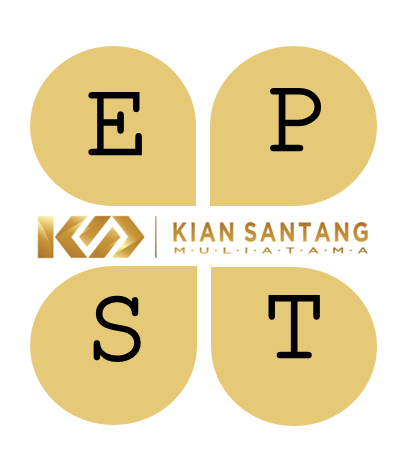
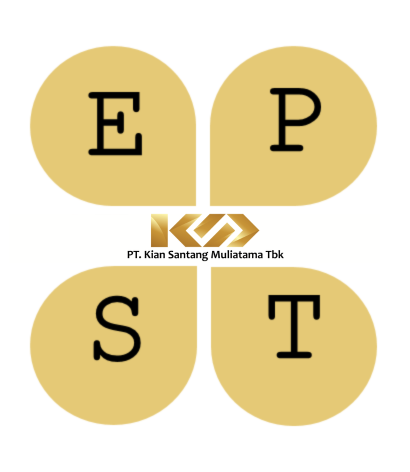
add menu info investor

diff --git a/resources/views/bisnisKami-epc.blade.php b/resources/views/bisnisKami-epc.blade.php
@@ -1,0 +1,69 @@
+@extends('layout')
+@section('content')
+<div class="container-fluid bg-primary py-5 bg-header">
+    <div class="row py-5">
+        <div class="col-12 pt-lg-5 mt-lg-5 text-center">
+            <h1 class="display-4 text-white animated zoomIn">Bisnis</h1>
+            <a href="" class="h5 text-white">Tentang Kami</a>
+            <i class="far fa-circle text-white px-2"></i>
+            <a href="" class="h5 text-white">Bisnis - EPC</a>
+        </div>
+    </div>
+</div>
+
+<div class="container-fluid py-5 wow fadeInUp" data-wow-delay="0.1s" style="visibility: visible; animation-delay: 0.1s; animation-name: fadeInUp;">
+    <div class="container py-5">
+        <div class="section-title text-center position-relative pb-3 mb-5 mx-auto" style="max-width: 600px;">
+            <h2 class="mb-0">KEMAMPUAN KSM DI BIDANG EPC</h2>
+        </div>
+        <section class="">
+                <div class="row">
+                    <div class="col-lg-4 col-md-12 mb-4 mb-lg-0">
+                        <div class="bg-image hover-overlay ripple shadow-1-strong rounded" data-ripple-color="light">
+                            <img src="http://127.0.0.1:8000/image-projek/Konverter-Kit/IMG-20200831-WA0009-removebg-preview.png" class="w-100" data-target="#exampleModal" data-toggle="modal">
+                            <h5>DESIGN & ENGINEERING</h5>
+                            <figcaption>KSM memiliki SDM dengan latar belakang teknik (engineering) dengan keahlian: Electrical (Electronic, Instument, Telecommunication & Programming), Mechanical (Construction & Pipeline) and teknik sipil.</figcaption>
+                        </div>
+                    </div>
+
+                    <div class="col-lg-4 mb-4 mb-lg-0">
+                        <div class="bg-image hover-overlay ripple shadow-1-strong rounded" data-ripple-color="light">
+                            <img src="http://127.0.0.1:8000/image-projek/Master-Meter/master-meter.png" class="w-100" data-toggle="modal" data-target="#exampleModal1"> 
+                            <h5>INFRASTRUCTURE WORKS</h5>
+                            <figcaption>Pipe Support, Utilities Foundation, Building, Yard, dan lain-lain.</figcaption>
+                        </div>
+                    </div>
+                    <div class="col-lg-4 mb-4 mb-lg-0">
+                        <div class="bg-image hover-overlay ripple shadow-1-strong rounded" data-ripple-color="light">
+                            <img src="http://127.0.0.1:8000/image-projek/MRS G100/_MG_4567.JPG" class="w-100" data-toggle="modal" data-target="#exampleModal2">
+                            <h5>FABRICATION WORKS</h5>
+                            <figcaption>Pressure Vessel, Skid, Pipe Spool, Control Panel, Wiring Installation, DCS Programming, dan lain-lain.</figcaption>
+                        </div>
+                    </div>
+                    <div class="col-lg-4 mt-4 mb-lg-0">
+                        <div class="bg-image hover-overlay ripple shadow-1-strong rounded" data-ripple-color="light">
+                            <img src="http://127.0.0.1:8000/image-projek/Pekerjaan Pengadaan Suku Cadang Regulator Kit RMG dan Bryan Donkin (Honeywell)/20011410530815795.jpg" class="w-100" data-toggle="modal" data-target="#exampleModal3">
+                            <h5>INSTALLATION AT SITE</h5>
+                            <figcaption>- Mechanical Erection<br>
+                                        - Pipeline Connection<br>
+                                        - Rotating Equipment <br>
+                                        - Electrical<br>
+                                        - Instrumentation<br>
+                                        - Central Control Room
+                            </figcaption>
+                        </div>
+                    </div>
+
+                    <div class="col-lg-4 mt-4 mb-lg-0">
+                        <div class="bg-image hover-overlay ripple shadow-1-strong rounded" data-ripple-color="light">
+                            <img src="http://127.0.0.1:8000/image-projek/Pengadaan EVC dan Alat Ukur Sales and Operation Regional I Tahun 2022/elcorplus-500x500.png" class="w-100" data-toggle="modal" data-target="#exampleModal4">
+                            <h5>TESTING & COMMISSIONING</h5>
+                            <figcaption>FAT, SAT, Testing – Commissioning & Running, Warranty, dan lain-lain.</figcaption>
+                        </div>
+                    </div>
+                   
+                </div>
+            </section>
+    </div>
+</div>
+@endsection

diff --git a/resources/views/welcome.blade.php b/resources/views/welcome.blade.php
@@ -8,7 +8,7 @@
             <div class="carousel-caption d-flex flex-column align-items-center justify-content-center">
                 <div class="p-3" style="max-width: 900px;">
                     <h3 class="text-white mb-3 animated slideInDown">Selamat Datang Di</h3>
-                    <h3 class="display-1 text-white animated zoomIn">PT KIAN SANTANG MULIATAMA</h3>
+                    <h3 class="display-1 text-white animated zoomIn">PT KIAN SANTANG MULIATAMA Tbk</h3>
                     <h5 class="text-white">- Konstruksi -</h5>
                 </div>
             </div>
@@ -18,7 +18,7 @@
             <div class="carousel-caption d-flex flex-column align-items-center justify-content-center">
                 <div class="p-3" style="max-width: 900px;">
                     <h3 class="text-white mb-3 animated slideInDown">Selamat Datang Di</h3>
-                    <h3 class="display-1 text-white animated zoomIn">PT KIAN SANTANG MULIATAMA</h3>
+                    <h3 class="display-1 text-white animated zoomIn">PT KIAN SANTANG MULIATAMA Tbk</h3>
                     <h5 class="text-white">- Pelayanan -</h5>
                 </div>
             </div>
@@ -28,7 +28,7 @@
             <div class="carousel-caption d-flex flex-column align-items-center justify-content-center">
                 <div class="p-3" style="max-width: 900px;">
                     <h3 class="text-white mb-3 animated slideInDown">Selamat Datang Di</h3>
-                    <h3 class="display-1 text-white animated zoomIn">PT KIAN SANTANG MULIATAMA</h3>
+                    <h3 class="display-1 text-white animated zoomIn">PT KIAN SANTANG MULIATAMA Tbk</h3>
                     <h5 class="text-white">- Perdagangan -</h5>
                 </div>
             </div>
@@ -90,7 +90,7 @@
             <div class="col-lg-7">
                 <div class="section-title position-relative pb-3 mb-5">
                     <h5 class="fw-bold text-dark text-uppercase">Tentang Kami</h5>
-                    <h1 class="mb-0">PT KIAN SANTANG MULIATAMA</h1>
+                    <h1 class="mb-0">PT KIAN SANTANG MULIATAMA Tbk</h1>
                 </div>
                 <p class="mb-4">Memberikan solusi terbaik bagi mitra bisnis kami berdasarkan kompetensi, profesionalisme, kepercayaan, dan motivasi untuk memenuhi tuntutan mitra bisnis dan selalu mengutamakan hubungan jangka panjang dengan mitra bisnis dan pengguna akhir di seluruh Indonesia.</p>
                 <div class="row g-0 mb-3">
@@ -151,7 +151,7 @@
             <div class="col-lg-4">
                 <div class="section-title position-relative pb-3 mb-5">
                     <h5 class="fw-bold text-dark text-uppercase">Video Kami</h5>
-                    <h1 class="mb-0">PT KIAN SANTANG MULIATAMA</h1>
+                    <h1 class="mb-0">PT KIAN SANTANG MULIATAMA Tbk</h1>
                 </div>
                 <div class="row g-0 mb-3">
                     <!-- <div class="col-sm-6 wow zoomIn" data-wow-delay="0.2s" style="visibility: visible; animation-delay: 0.2s; animation-name: zoomIn;">

diff --git a/resources/views/investor-info.blade.php b/resources/views/investor-info.blade.php
@@ -1,0 +1,72 @@
+@extends('layout')
+@section('content')
+<div class="container-fluid bg-primary py-5 bg-header">
+    <div class="row py-5">
+        <div class="col-12 pt-lg-5 mt-lg-5 text-center">
+            <h1 class="display-4 text-white animated zoomIn">Investor</h1>
+            <a href="" class="h5 text-white">Info Investor</a>
+            <i class="far fa-circle text-white px-2"></i>
+            <a href="" class="h5 text-white">Investor - Info Investor</a>
+        </div>
+    </div>
+</div>
+
+<div class="container-fluid py-5 wow fadeInUp" data-wow-delay="0.1s" style="visibility: visible; animation-delay: 0.1s; animation-name: fadeInUp;">
+    <div class="container py-5">
+    <table class="table table-bordered">
+        <tbody>
+        <tr>
+            <td colspan="2"><h2>Kantor Akuntan Publik</h2></td>          
+        </tr>
+        <tr>
+            <td>Kantor Akuntan Publik </td>
+            <td>Mennix & Rekan (FinExpertiza Indonesia) </td>
+        </tr>
+        <tr>
+            <td>Alamat  </td>
+            <td>Voza Tower Office Lt. 11 Unit G, JI. Mayjend HR. Muhammad No. 31, Surabaya, Jawa Timur, 60189</td>
+        </tr>
+        <tr>
+            <td>Nama Partner   </td>
+            <td>Yudianto Prawiro</td>
+        </tr>
+        <tr>
+            <td>STTD</td>
+            <td>STTD.AP-577/PM.2/2018 tanggal 27 Juli 2018</td>
+        </tr>
+        <tr>
+            <td>Pedoman kerja  </td>
+            <td>Standar Profesional Akuntan Publik dan Pernyataan Standar Akuntansi Keuangan</td>
+        </tr>
+        </tbody>
+        </table><br>
+
+        <table class="table table-bordered">
+        <tbody>
+        <tr>
+            <td colspan="2"><h2>Notaris</h2></td>          
+        </tr>
+        <tr>
+            <td>Notaris </td>
+            <td>Rini Yulianti, SH</td>
+        </tr>
+        <tr>
+            <td>Alamat  </td>
+            <td>Komplek Bina Marga Il, Jalan Swakarsa V Nomor 57B, Pondok Kelapa, Duren Sawit</td>
+        </tr>
+        <tr>
+            <td>No.STID  </td>
+            <td>STTD.N-40-PJ-1/PM.02/2023 Tgl 21 Maret 2023</td>
+        </tr>
+        <tr>
+            <td>Pedoman kerja  </td>
+            <td>Undang-Undang Republik Indonesia No.2 Tahun 2014 tentang Perubahan Atas Undang-Undang No.30 Tahun 2004 tentang Jabatan Notaris</td>
+        </tr>
+        </tbody>
+        </table>
+
+
+ 
+    </div>
+</div>
+@endsection

diff --git a/resources/views/layout.blade.php b/resources/views/layout.blade.php
@@ -3,7 +3,7 @@
 
 <head>
     <meta charset="utf-8">
-    <title>PT KIAN SANTANG MULIATAMA</title>
+    <title>PT KIAN SANTANG MULIATAMA Tbk</title>
     <meta content="width=device-width, initial-scale=1.0" name="viewport">
     <meta content="Free HTML Templates" name="keywords">
     <meta content="Free HTML Templates" name="description">
@@ -71,7 +71,7 @@
     <div class="container-fluid position-relative p-0">
         <nav class="navbar navbar-expand-lg navbar-dark px-5 py-3 py-lg-0" style="background:white;">
             <a href="{{ asset('template/index.html') }}" class="navbar-brand p-0">
-                <img src="{{ asset('template/img/logo4.png') }}" alt="Image">
+                <img src="{{ asset('template/img/logonew.png') }}" alt="Image">
             </a>
             <button class="navbar-toggler" type="button" data-bs-toggle="collapse" data-bs-target="#navbarCollapse">
                 <span class="fa fa-bars"></span>
@@ -98,7 +98,7 @@
                     <div class="nav-item dropdown">
                         <a href="#" class="nav-link dropdown-toggle" data-bs-toggle="dropdown" style="color:#b97d29;">Investor</a>
                         <div class="dropdown-menu m-0">
-                            <a href="/profil" class="dropdown-item" style="color:#b97d29;">Info Investor</a>
+                            <a href="/infoInvestor" class="dropdown-item" style="color:#b97d29;">Info Investor</a>
                             <a href="/profil-bisnis" class="dropdown-item" style="color:#b97d29;">Laporan Tahunan & Laporan Keuangan</a>
                             <a href="/profil-struktur" class="dropdown-item" style="color:#b97d29;">Pemegang Saham</a>
                             <a href="/profil-komisaris" class="dropdown-item" style="color:#b97d29;">Rapat Umum Pemegang Saham</a>
@@ -220,7 +220,7 @@
         <div class="container text-center">
             <div class="row justify-content-end">
                 <div class="d-flex align-items-center justify-content-center" style="height: 75px;">
-                    <p class="mb-0">&copy; <a class="text-white border-bottom" href="#">Kian Santang Muliatama</a>. Seluruh hak cipta.
+                    <p class="mb-0">&copy; <a class="text-white border-bottom" href="#">Kian Santang Muliatama Tbk</a>. Seluruh hak cipta.
                     </p>
                 </div>
             </div>

diff --git a/routes/web.php b/routes/web.php
@@ -26,12 +26,14 @@ Route::get('/', function () {return view('welcome');});
 
 Route::get('/profil', function () {return view('profilKami');});
 Route::get('/profil-bisnis', function () {return view('bisnisKami');});
+Route::get('/profil-bisnis-epc', function () {return view('bisnisKami-epc');});
 Route::get('/profil-susunan', function () {return view('susunanPengurus');});
 Route::get('/profil-struktur', function () {return view('strukturPerusahaan');});
 
 Route::resource('/admin/berita',BeritaController::class);
 Route::get('/berita', [HomeController::class, 'berita'] );
 
+Route::get('/infoInvestor', function () {return view('investor-info');});
 Route::get('/projek', function () {return view('portofolio-projek');});
 Route::get('/kontak', function () {return view('kontakKami');});
 Route::get('/admin', function () {return view('admin.dashboard');});

diff --git a/resources/views/portofolio-projek.blade.php b/resources/views/portofolio-projek.blade.php
@@ -2,9 +2,9 @@
 @section('css')
 <link rel="stylesheet" href="https://stackpath.bootstrapcdn.com/bootstrap/4.1.3/css/bootstrap.min.css" integrity="sha384-MCw98/SFnGE8fJT3GXwEOngsV7Zt27NXFoaoApmYm81iuXoPkFOJwJ8ERdknLPMO" crossorigin="anonymous">
 <style>
-    img {
+    /* img {
         background-color: black;
-    }
+    } */
 
     .image:hover {
         opacity: 0.3;
@@ -27,7 +27,7 @@
     <div class="container py-5">
         <div class="section-title text-center position-relative pb-3 mb-5 mx-auto" style="max-width: 600px;">
             <h5 class="fw-bold text-primary text-uppercase">Daftar Pengalaman Perusahaan</h5>
-            <h1 class="mb-0">PT KIAN SANTANG MULIATAMA</h1>
+            <h1 class="mb-0">PT KIAN SANTANG MULIATAMA Tbk</h1>
         </div>
         <!-- Modal gallery -->
         <section class="">

diff --git a/resources/views/profilKami.blade.php b/resources/views/profilKami.blade.php
@@ -17,7 +17,7 @@
                 <div class="col-lg-7">
                     <div class="section-title position-relative pb-3 mb-5">
                         <h5 class="fw-bold text-primary text-uppercase">Sejarah Singkat</h5>
-                        <h1 class="mb-0">PT KIAN SANTANG MULIATAMA</h1>
+                        <h1 class="mb-0">PT KIAN SANTANG MULIATAMA Tbk</h1>
                     </div>
                     <p class="mb-4">
                     <b>PT Kian Santang Muliatama Tbk (“Perseroan” atau “KSM”)</b> adalah perusahaan yang bergerak di bidang jasa penunjang industri gas, meliputi penyediaan product (spare parts) hingga ke engineering, procurement and construction (EPC).<br><br>

diff --git a/resources/views/bisnisKami.blade.php b/resources/views/bisnisKami.blade.php
@@ -26,7 +26,7 @@
                                 <i class="fa fa-cubes text-white"></i>
                             </div>
                         </div>
-                        <h4 class="d-flex justify-content-end">EPC</h4>
+                        <h4 class="d-flex justify-content-end"><a href="/profil-bisnis-epc">EPC</a></h4>
                         <p class="mb-0">KSM memiliki kemampuan melaksanakan pekerjaan <i>Engineering, Procurement, Construction,</i> utamanya di sektor gas industri dan <i>city gas</i>. </p>
                     </div>
                     <div class="col-12 wow zoomIn" data-wow-delay="0.6s" style="visibility: visible; animation-delay: 0.6s; animation-name: zoomIn;">

diff --git a/app/Http/Controllers/HomeController.php b/app/Http/Controllers/HomeController.php
@@ -15,6 +15,10 @@ class HomeController extends Controller
    {
       return view('bisnisKami');
    }
+   public function bisnisKami_epc()
+   {
+      return view('bisnisKami-epc');
+   }
    public function susunanPengurus()
    {
       return view('susunanPengurus');
@@ -22,6 +26,10 @@ class HomeController extends Controller
    public function portofolioProjek()
    {
     return view('portofolio-projek');
+   }
+   public function infoInvestor()
+   {
+    return view('investor-info');
    }
    public function strukturPerusahaan()
    {

diff --git a/resources/views/strukturPerusahaan.blade.php b/resources/views/strukturPerusahaan.blade.php
@@ -15,7 +15,7 @@
         <div class="container py-5">
             <div class="section-title text-center position-relative pb-3 mb-5 mx-auto" style="max-width: 600px;">
                 <h5 class="fw-bold text-primary text-uppercase">Struktur Perusahaan</h5>
-                <h1 class="mb-0">PT KIAN SANTANG MULIATAMA</h1>
+                <h1 class="mb-0">PT KIAN SANTANG MULIATAMA Tbk</h1>
             </div>
             <div class="row">
             <img src="{{ asset('template/img/struktur.png') }}" alt="">

diff --git a/resources/views/susunanPengurus.blade.php b/resources/views/susunanPengurus.blade.php
@@ -15,7 +15,7 @@
         <div class="container py-5">
             <div class="section-title text-center position-relative pb-3 mb-5 mx-auto" style="max-width: 600px;">
                 <h5 class="fw-bold text-primary text-uppercase">Susunan Pengurus</h5>
-                <h1 class="mb-0">PT KIAN SANTANG MULIATAMA</h1>
+                <h1 class="mb-0">PT KIAN SANTANG MULIATAMA Tbk</h1>
             </div>
             <div class="row">
             <img src="{{ asset('template/img/susunan.png') }}" alt="">
